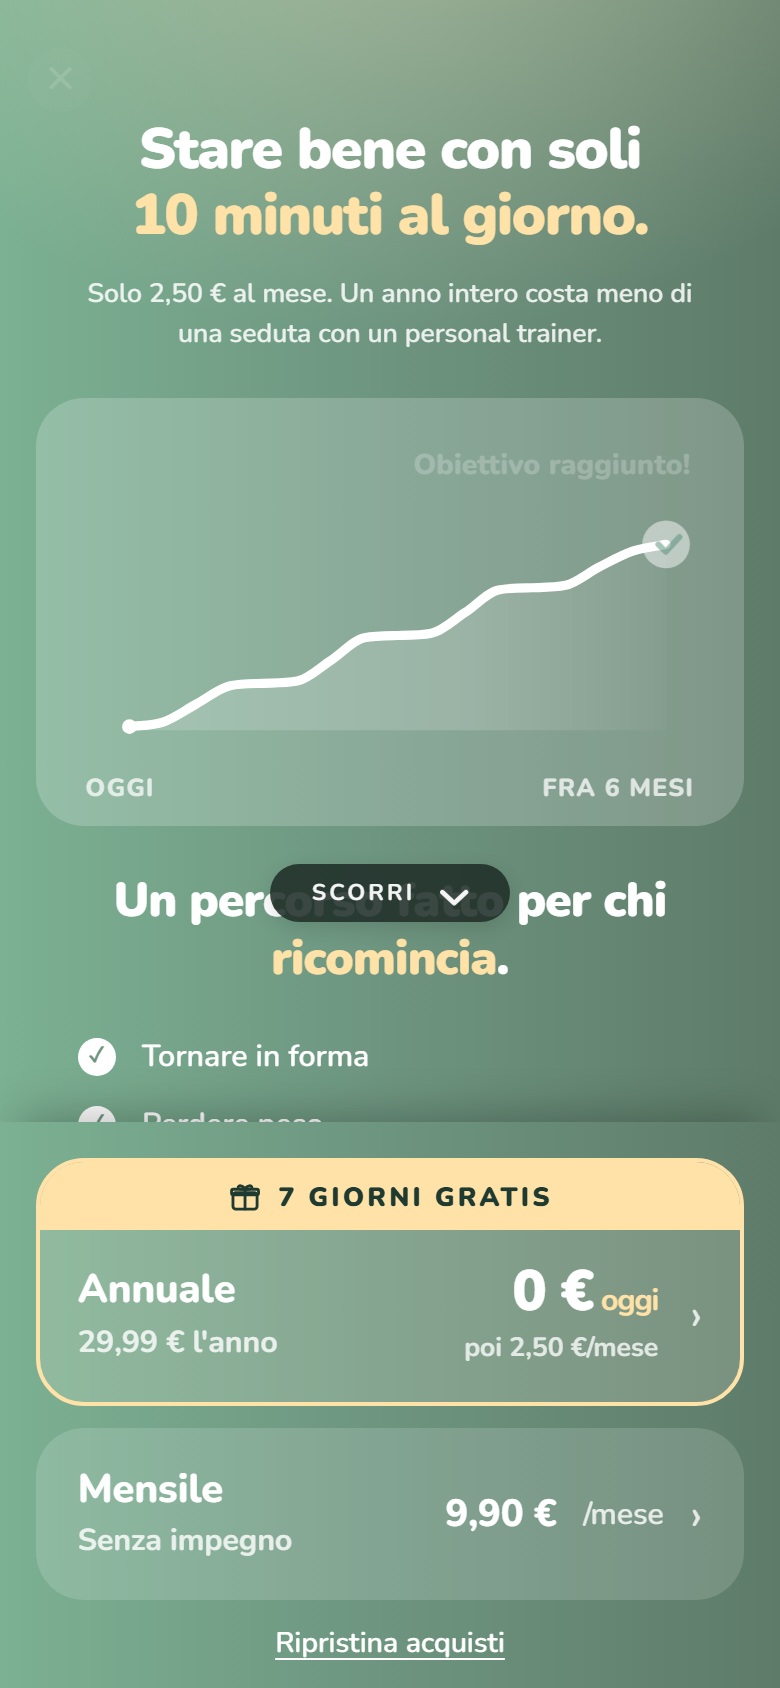
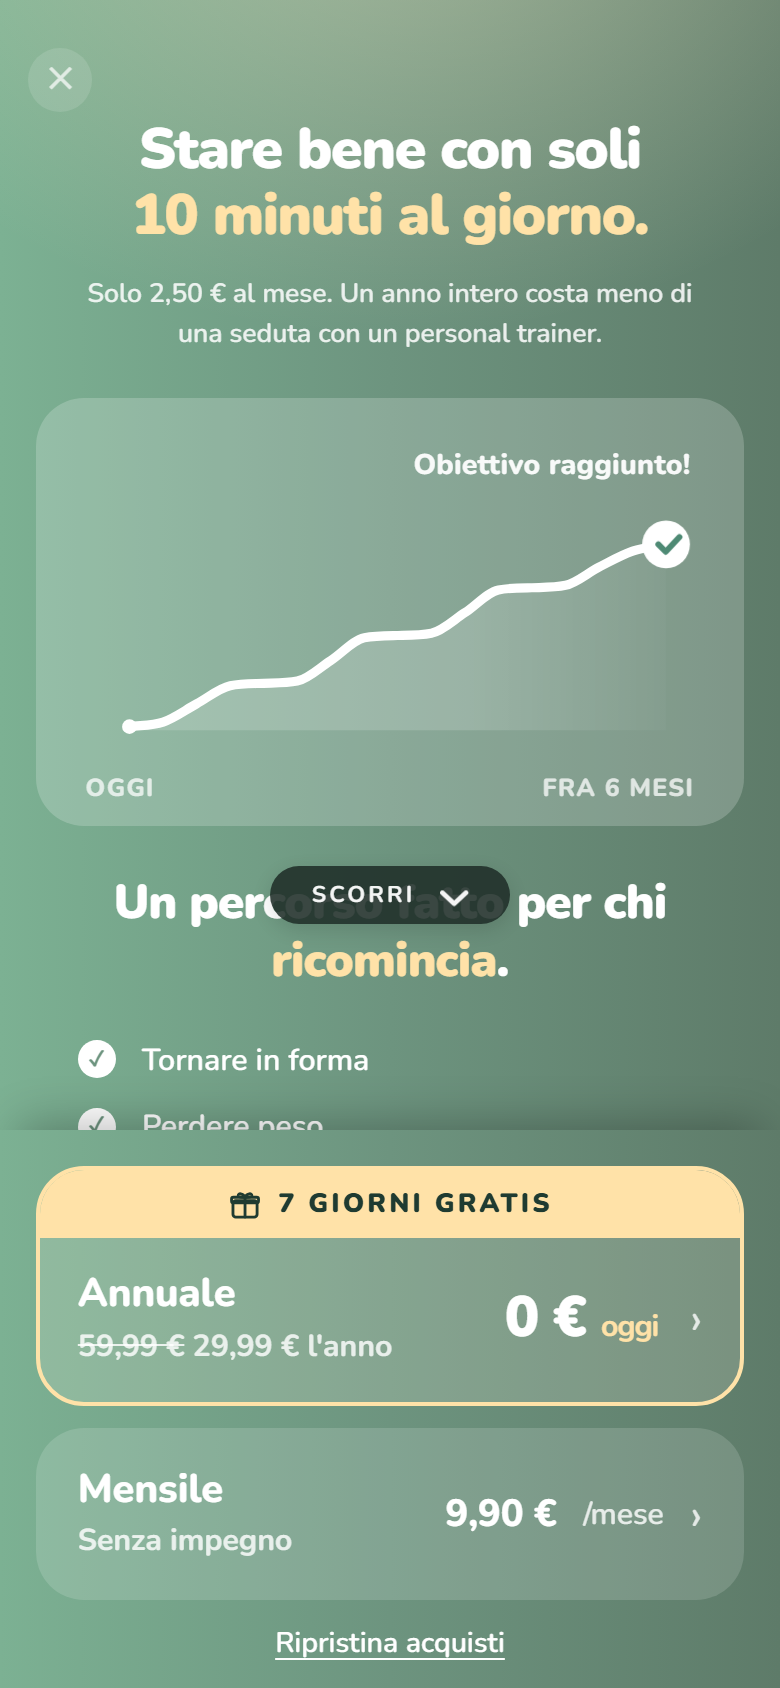
fix(kpi): la scheda del paywall con la prova ha il listino sbarrato e non ha più la rata al mese

diff --git a/public/internal/js/kpi.js b/public/internal/js/kpi.js
@@ -7504,7 +7504,7 @@ function sezioneTimeoutBox(msg, retryCall) {
 // mostrare i byte vecchi anche con no-cache (successo il 17/09/2026: la miniatura di
 // «Fine onboarding · grafico» mostrava ancora «programma pronto», che era il contenuto
 // precedente di quel file). Da bumpare a ogni giro di paywall-shots.mjs.
-const PAYWALL_SHOT_V = '20260925b';
+const PAYWALL_SHOT_V = '20260925c';
 
 const CREATIVE_REGISTRY = [
   {
@@ -7544,7 +7544,7 @@ const CREATIVE_REGISTRY = [
     where: 'Oggi solo l\'anteprima /dev (voce «Paywall di partenza · con la prova»). È pensata per la stessa pagina intera del paywall di partenza, a fine onboarding.',
     when: 'Nata il 25/09/2026 e non ancora in app: nessun punto del codice la monta. Quando andrà in rotazione starà ACCANTO al paywall di partenza, non al suo posto — la domanda sarà quale dei due converte di più.',
     exit: 'La × in alto a sinistra, che compare a grafico finito, o il tasto indietro di Android. Nessun «continua gratis», come nel paywall di partenza.',
-    what: 'La schermata del paywall di partenza, identica in tutto — titolo coi minuti scelti, grafico che si disegna, benefici per obiettivo, recensioni che scorrono, chiusura sul numero degli allenamenti, le stesse due schede dei piani, «Ripristina acquisti». Cambia solo la scheda dell\'annuale: in cima una fascia oro «7 giorni gratis» col pacchettino, a destra in grande «0 € oggi» al posto del prezzo, e sotto in piccolo «poi 2,50 €/mese» e, sotto il nome, «29,99 € l\'anno». Niente «Il più scelto»: la fascia fa da etichetta. Il mensile è quello di sempre, senza prova. Prima versione dello stesso giorno (bottone unico «Prova 7 giorni gratis» al posto delle due schede) scartata da Mattia: cambia solo la parte dei prezzi.',
+    what: 'La schermata del paywall di partenza, identica in tutto — titolo coi minuti scelti, grafico che si disegna, benefici per obiettivo, recensioni che scorrono, chiusura sul numero degli allenamenti, le stesse due schede dei piani, «Ripristina acquisti». Cambia solo la scheda dell\'annuale: in cima una fascia oro «7 giorni gratis» col pacchettino, a destra in grande «0 € oggi», da solo, al posto del prezzo, e sotto il nome, in piccolo, il listino sbarrato e il totale: «59,99 € 29,99 € l\'anno» (il barrato solo in euro, come sulla scheda del paywall di partenza). La rata «poi 2,50 €/mese», che c\'era, l\'ha tolta Mattia il 25/09/2026: quattro cifre in una scheda erano troppe. Niente «Il più scelto»: la fascia fa da etichetta. Il mensile è quello di sempre, senza prova. Prima versione dello stesso giorno (bottone unico «Prova 7 giorni gratis» al posto delle due schede) scartata da Mattia: cambia solo la parte dei prezzi.',
     cta: 'Come nel paywall di partenza il bottone È la scheda, e un tocco apre il pagamento di Google. La scheda dell\'annuale compra l\'offerta `freetrial-7d` NOMINATA, passata identica al catalogo e all\'acquisto: i giorni e le cifre scritti sono quelli dell\'offerta che il tocco paga. Il mensile, dove quel nome non esiste, compra il suo piano di sempre. Se il catalogo di quel telefono non ha la prova — account che l\'ha già consumata, o offerta spenta su Console — la scheda dell\'annuale torna identica a quella del paywall di partenza e la schermata non nomina la prova. `cta_copy`: `onboarding_start.trial.band` sul tocco della scheda con la prova, le chiavi di sempre (`plans_v2.annual.label` / `plans_v2.monthly.label`) negli altri casi. ⚠ Limite noto: senza la prova il ripiego è la scala generica di `pickPreferredOffer` — oggi il piano base 29,99 €/anno, ma se un giorno comparissero le rate o `discount-19` senza la prova, la scheda venderebbe quelle.',
     note: 'Creatività separata da `onboarding_start` per scelta esplicita di Mattia: le due vanno lette come due righe, mai sommate. Stesso KPI di guardia del paywall di partenza — primo allenamento entro 48h — quando entrerà in rotazione.',
     file: 'app/src/pages/OnboardingTrialPaywall/OnboardingTrialPaywall.tsx',
